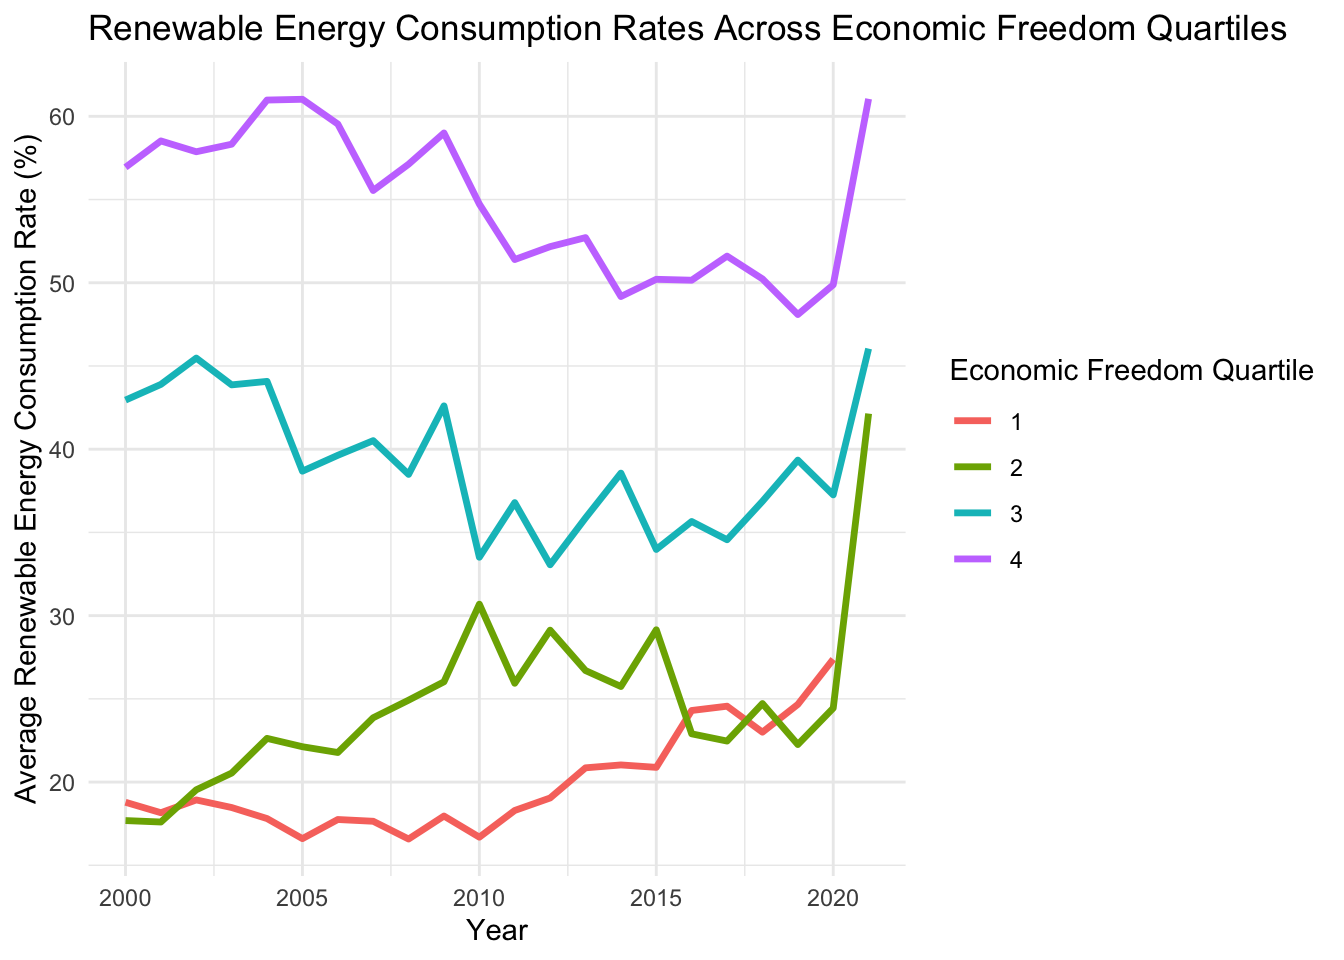
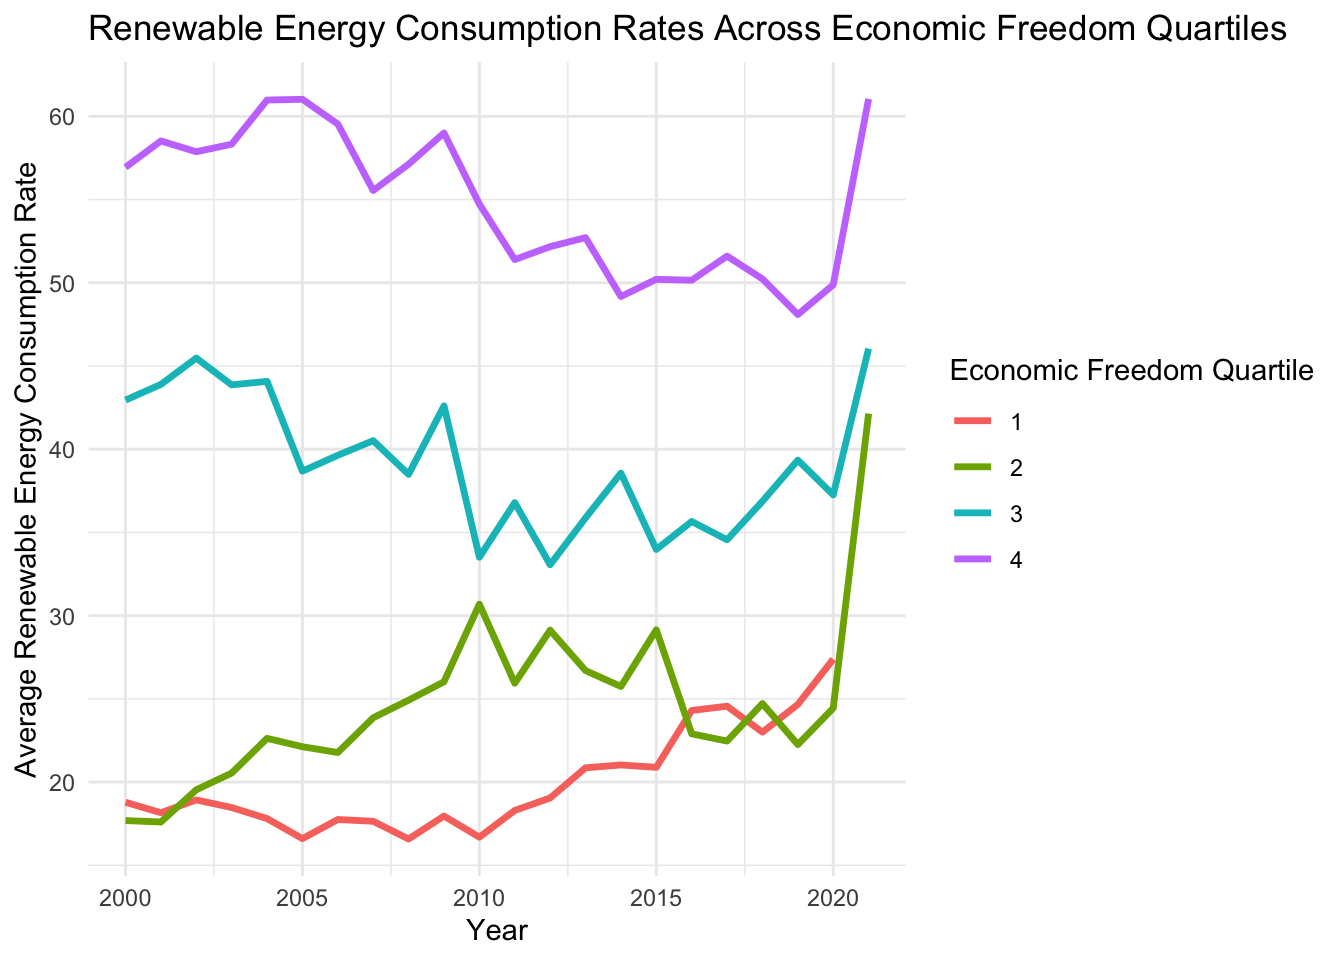
Built site for gh-pages

Changed region(s): [[0.0, 0.1562, 0.0312, 0.8438]]

diff --git a/blog/2023-12-1-stats-proj/index.html b/blog/2023-12-1-stats-proj/index.html
@@ -239,9 +239,9 @@ div.csl-indent {
 <section id="what-is-economic-freedom" class="level3">
 <h3 class="anchored" data-anchor-id="what-is-economic-freedom">What is <em>Economic Freedom</em>?</h3>
 <p>There is certainly a level of subjectivity, or at least a certain amount of uncertainty, when scoring the freedom of an economy. As a result, it seems impossible to create a perfect score for economic freedom. However, this doesn’t mean people haven’t tried to create a spectrum to measure how free and open different economies are.</p>
-<p>The <em>Economic Freedom of the World: 2022 Annual Report</em> serves as the backbone of the analysis in this exploration. The dataset has a multitude of columns, the most important of which is gives each country an economic freedom index score on a scale from 1 to 10. According to the Fraser Institute, the pillars of their scoring of economic freedom depend on “personal choice, voluntary exchange, freedom to enter markets and compete, and security of the person and privately owned property.” <span class="citation" data-cites="fraser">(<a href="#ref-fraser" role="doc-biblioref">Gwartney 2022</a>)</span> This economic freedom score is measured in five areas: size of government, legal system and property rights, sound money, freedom to trade internationally, and regulation.</p>
-<p>In addition to the economic freedom index column, there are a plethora of interesting variables that can be analyzed in this dataset.</p>
-<p>The report discusses how countries that are have higher levels of economic freedom outperform less free countries in indicators of well being. Countries in the top quartile of economic freedom saw an average per-caputa GDP of $48,251 in 2020, while countries in the bottom quartile for economic freedom had an average of $6,542. Furthermore, life expecancy in the top quartile was 80.4 years and 66 years in the bottom quartile in 2020 <span class="citation" data-cites="fraser">(<a href="#ref-fraser" role="doc-biblioref">Gwartney 2022</a>)</span> However, do these positive impacts of higher economic freedom also lead to better environmental outcomes? This analysis will put this question to the test.</p>
+<p>The <em>Economic Freedom of the World: 2022 Annual Report</em> serves as the backbone of the analysis in this exploration. The data set has a multitude of columns, the most important of which is gives each country an economic freedom index score on a scale from 1 to 10. According to the Fraser Institute, the pillars of their scoring of economic freedom depend on “personal choice, voluntary exchange, freedom to enter markets and compete, and security of the person and privately owned property.” <span class="citation" data-cites="fraser">(<a href="#ref-fraser" role="doc-biblioref">Gwartney 2022</a>)</span> This economic freedom score is measured in five areas: size of government, legal system and property rights, sound money, freedom to trade internationally, and regulation.</p>
+<p>In addition to the economic freedom index column, there are a plethora of interesting variables that can be analyzed in this data set.</p>
+<p>The report discusses how countries that are have higher levels of economic freedom outperform less free countries in indicators of well being. Countries in the top quartile of economic freedom saw an average per-caputa GDP of $48,251 in 2020, while countries in the bottom quartile for economic freedom had an average of $6,542. Furthermore, life expectancy in the top quartile was 80.4 years and 66 years in the bottom quartile in 2020 <span class="citation" data-cites="fraser">(<a href="#ref-fraser" role="doc-biblioref">Gwartney 2022</a>)</span> However, do these positive impacts of higher economic freedom also lead to better environmental outcomes? This analysis will put this question to the test.</p>
 </section>
 <section id="environmental-outcomes-analyzed" class="level3">
 <h3 class="anchored" data-anchor-id="environmental-outcomes-analyzed">Environmental Outcomes Analyzed</h3>
@@ -253,7 +253,7 @@ div.csl-indent {
 </section>
 <section id="data-wrangling" class="level2">
 <h2 class="anchored" data-anchor-id="data-wrangling">Data Wrangling</h2>
-<p>First, let’s import the libraries we will need to conduct this analysis.</p>
+<p>First, let’s import the libraries we wlll need to conduct this analysis.</p>
 <div class="cell">
 <div class="sourceCode cell-code" id="cb1"><pre class="sourceCode r code-with-copy"><code class="sourceCode r"><span id="cb1-1"><a href="#cb1-1" aria-hidden="true" tabindex="-1"></a><span class="co"># import libraries</span></span>
 <span id="cb1-2"><a href="#cb1-2" aria-hidden="true" tabindex="-1"></a><span class="fu">library</span>(here)</span>
@@ -265,9 +265,10 @@ div.csl-indent {
 <span id="cb1-8"><a href="#cb1-8" aria-hidden="true" tabindex="-1"></a><span class="fu">library</span>(forecast)</span>
 <span id="cb1-9"><a href="#cb1-9" aria-hidden="true" tabindex="-1"></a><span class="fu">library</span>(randomForest)</span>
 <span id="cb1-10"><a href="#cb1-10" aria-hidden="true" tabindex="-1"></a><span class="fu">library</span>(tidyverse)</span>
-<span id="cb1-11"><a href="#cb1-11" aria-hidden="true" tabindex="-1"></a></span>
-<span id="cb1-12"><a href="#cb1-12" aria-hidden="true" tabindex="-1"></a><span class="co"># clear environment for sanity</span></span>
-<span id="cb1-13"><a href="#cb1-13" aria-hidden="true" tabindex="-1"></a><span class="fu">rm</span>(<span class="at">list =</span> <span class="fu">ls</span>())</span></code><button title="Copy to Clipboard" class="code-copy-button"><i class="bi"></i></button></pre></div>
+<span id="cb1-11"><a href="#cb1-11" aria-hidden="true" tabindex="-1"></a><span class="fu">library</span>(gplots)</span>
+<span id="cb1-12"><a href="#cb1-12" aria-hidden="true" tabindex="-1"></a></span>
+<span id="cb1-13"><a href="#cb1-13" aria-hidden="true" tabindex="-1"></a><span class="co"># clear environment for sanity</span></span>
+<span id="cb1-14"><a href="#cb1-14" aria-hidden="true" tabindex="-1"></a><span class="fu">rm</span>(<span class="at">list =</span> <span class="fu">ls</span>())</span></code><button title="Copy to Clipboard" class="code-copy-button"><i class="bi"></i></button></pre></div>
 </div>
 <section id="data-cleaning" class="level3">
 <h3 class="anchored" data-anchor-id="data-cleaning">Data Cleaning</h3>
@@ -387,7 +388,7 @@ div.csl-indent {
 <h2 class="anchored" data-anchor-id="analysis">Analysis</h2>
 <section id="emissions" class="level3">
 <h3 class="anchored" data-anchor-id="emissions">Emissions</h3>
-<p>In the first piece of analysis, let’s look at the methane emissions data. The units for which the emissions are recorded in the dataset are metric tons of CO2 equivalent per capita.</p>
+<p>In the first piece of analysis, let’s look at the methane emissions data. The units for which the emissions are recorded in the data set are metric tons of CO2 equivalent per capita.</p>
 <p>First, let’s compare the average emission by economic freedom quartile from 2000 to 2020.</p>
 <div class="cell">
 <div class="sourceCode cell-code" id="cb9"><pre class="sourceCode r code-with-copy"><code class="sourceCode r"><span id="cb9-1"><a href="#cb9-1" aria-hidden="true" tabindex="-1"></a><span class="co"># create summary table for mean and stdev of methane emissions for each economic freedom quartile</span></span>
@@ -413,7 +414,7 @@ div.csl-indent {
 </div>
 </div>
 <p>Interesting, so the second quartile of economically free countries has the highest methane emissions by a significant amount across the entire time period. Overall, the emissions levels of all quartiles decreased from 2000 to 2020, a positive sign in the hopes of becoming a carbon-neutral planet.</p>
-<p>Next, let’s perform a linear regression on the economic freedom index and methane emissions.</p>
+<p>Next, let’s perform a linear regression on the economic freedom index and methane emissions to understand the effect of economic freedom on methane emissions.</p>
 <div class="cell">
 <div class="sourceCode cell-code" id="cb10"><pre class="sourceCode r code-with-copy"><code class="sourceCode r"><span id="cb10-1"><a href="#cb10-1" aria-hidden="true" tabindex="-1"></a><span class="co"># run linear regression</span></span>
 <span id="cb10-2"><a href="#cb10-2" aria-hidden="true" tabindex="-1"></a>methane_lm <span class="ot">&lt;-</span> <span class="fu">lm</span>(Value <span class="sc">~</span> economic_freedom_summary_index, <span class="at">data =</span> methane_emissions)</span>
@@ -471,7 +472,7 @@ Multiple R-squared:  0.004061,  Adjusted R-squared:  -0.006534
 F-statistic: 0.3833 on 1 and 94 DF,  p-value: 0.5373</code></pre>
 </div>
 </div>
-<p>Yikes! A negative adjusted r-squared value. This is a sign that the model is a poor fit for the data and is less informative than the mean of the dependent variable. It can also be due to overfitting, but this is not the case since we are only using one predictor variable. Maybe there is a combination of factors from the multitude of columns coming from the <em>freedom</em> dataset that could be useful and informative. Let’s take a look.</p>
+<p>Yikes! Not any better. A negative adjusted r-squared value. This is a sign that the model is a poor fit for the data and is less informative than the mean of the dependent variable. It can also be due to overfitting, but this is not the case since we are only using one predictor variable. Maybe there is a combination of factors from the multitude of columns coming from the <em>freedom</em> data set that could be useful and informative. Let’s take a look.</p>
 <p>The code below finds the 10 variables that have the strongest correlation to methane emissions.</p>
 <div class="cell">
 <div class="sourceCode cell-code" id="cb14"><pre class="sourceCode r code-with-copy"><code class="sourceCode r"><span id="cb14-1"><a href="#cb14-1" aria-hidden="true" tabindex="-1"></a><span class="co"># Ensure 'Value' is numeric</span></span>
@@ -515,6 +516,7 @@ F-statistic: 0.3833 on 1 and 94 DF,  p-value: 0.5373</code></pre>
 10                      x1d_top_marginal_tax_rate            0.2024452</code></pre>
 </div>
 </div>
+<p>These are the 10 variables that have the strongest correlation with methane emission levels. ADD DESCRIPTIONS OF AMBIGUOUS VARIABLES.</p>
 <p>Let’s consider the hypothesis that a strong government with stable currency and lower regulatory influence will have higher methane emissions due to the amount of profitability that can be gained through traditional methane production of goods.</p>
 <div class="cell">
 <div class="sourceCode cell-code" id="cb16"><pre class="sourceCode r code-with-copy"><code class="sourceCode r"><span id="cb16-1"><a href="#cb16-1" aria-hidden="true" tabindex="-1"></a>methane_emission_2020_selected <span class="ot">&lt;-</span> methane_emissions <span class="sc">%&gt;%</span> </span>
@@ -598,7 +600,7 @@ F-statistic: 355.7 on 3 and 3037 DF,  p-value: &lt; 2.2e-16</code></pre>
 <span id="cb22-3"><a href="#cb22-3" aria-hidden="true" tabindex="-1"></a>  <span class="fu">geom_line</span>(<span class="at">size =</span> <span class="fl">1.2</span>) <span class="sc">+</span></span>
 <span id="cb22-4"><a href="#cb22-4" aria-hidden="true" tabindex="-1"></a>  <span class="fu">labs</span>(<span class="at">title =</span> <span class="st">"Renewable Energy Consumption Rates Across Economic Freedom Quartiles"</span>,</span>
 <span id="cb22-5"><a href="#cb22-5" aria-hidden="true" tabindex="-1"></a>       <span class="at">x =</span> <span class="st">"Year"</span>,</span>
-<span id="cb22-6"><a href="#cb22-6" aria-hidden="true" tabindex="-1"></a>       <span class="at">y =</span> <span class="st">"Average Renewable Energy Consumption Rate (%)"</span>,</span>
+<span id="cb22-6"><a href="#cb22-6" aria-hidden="true" tabindex="-1"></a>       <span class="at">y =</span> <span class="st">"Average Renewable Energy Consumption Rate"</span>,</span>
 <span id="cb22-7"><a href="#cb22-7" aria-hidden="true" tabindex="-1"></a>       <span class="at">color =</span> <span class="st">"Economic Freedom Quartile"</span>) <span class="sc">+</span></span>
 <span id="cb22-8"><a href="#cb22-8" aria-hidden="true" tabindex="-1"></a>  <span class="fu">theme_minimal</span>()</span></code><button title="Copy to Clipboard" class="code-copy-button"><i class="bi"></i></button></pre></div>
 <div class="cell-output cell-output-stderr">
@@ -779,8 +781,8 @@ Signif. codes:  0 '***' 0.001 '**' 0.01 '*' 0.05 '.' 0.1 ' ' 1
 <p><img src="index_files/figure-html/unnamed-chunk-23-1.png" class="img-fluid" width="672"></p>
 </div>
 </div>
-<p>This visualization provides some strong takeaways.</p>
-<p>Now let’s look at this over time</p>
+<p>This visualization provides some strong takeaways. DISCUSS TAKEAWAYS HERE</p>
+<p>Now let’s look at this over time.</p>
 <div class="cell">
 <div class="sourceCode cell-code" id="cb42"><pre class="sourceCode r code-with-copy"><code class="sourceCode r"><span id="cb42-1"><a href="#cb42-1" aria-hidden="true" tabindex="-1"></a><span class="co"># Aggregating the forest depletion data by year and quartile</span></span>
 <span id="cb42-2"><a href="#cb42-2" aria-hidden="true" tabindex="-1"></a>forest_depletion_time_series <span class="ot">&lt;-</span> forest_depletion <span class="sc">%&gt;%</span></span>
@@ -822,6 +824,7 @@ Signif. codes:  0 '***' 0.001 '**' 0.01 '*' 0.05 '.' 0.1 ' ' 1</code></pre>
 </section>
 <section id="water-stress" class="level3">
 <h3 class="anchored" data-anchor-id="water-stress">Water Stress</h3>
+<p>INTRODUCE WATER STRESS HERE</p>
 <div class="cell">
 <div class="sourceCode cell-code" id="cb45"><pre class="sourceCode r code-with-copy"><code class="sourceCode r"><span id="cb45-1"><a href="#cb45-1" aria-hidden="true" tabindex="-1"></a><span class="co"># Ensure 'Value' is numeric</span></span>
 <span id="cb45-2"><a href="#cb45-2" aria-hidden="true" tabindex="-1"></a>water_stress<span class="sc">$</span>Value <span class="ot">&lt;-</span> <span class="fu">as.numeric</span>(water_stress<span class="sc">$</span>Value)</span>
@@ -999,45 +1002,43 @@ F-statistic: 142.6 on 4 and 2339 DF,  p-value: &lt; 2.2e-16</code></pre>
 <span id="cb51-34"><a href="#cb51-34" aria-hidden="true" tabindex="-1"></a>  similar_countries_with_emissions <span class="ot">&lt;-</span> <span class="fu">merge</span>(similar_countries, emissions_2020, <span class="at">by =</span> <span class="st">"country_name"</span>) <span class="sc">%&gt;%</span> </span>
 <span id="cb51-35"><a href="#cb51-35" aria-hidden="true" tabindex="-1"></a>    dplyr<span class="sc">::</span><span class="fu">select</span>(country_name, eucl_distance, Value) <span class="sc">%&gt;%</span> </span>
 <span id="cb51-36"><a href="#cb51-36" aria-hidden="true" tabindex="-1"></a>    <span class="fu">arrange</span>(eucl_distance)</span>
-<span id="cb51-37"><a href="#cb51-37" aria-hidden="true" tabindex="-1"></a></span>
-<span id="cb51-38"><a href="#cb51-38" aria-hidden="true" tabindex="-1"></a>  <span class="co"># Return the most similar countries</span></span>
-<span id="cb51-39"><a href="#cb51-39" aria-hidden="true" tabindex="-1"></a>  <span class="fu">head</span>(similar_countries_with_emissions, top_n)</span>
-<span id="cb51-40"><a href="#cb51-40" aria-hidden="true" tabindex="-1"></a>}</span></code><button title="Copy to Clipboard" class="code-copy-button"><i class="bi"></i></button></pre></div>
+<span id="cb51-37"><a href="#cb51-37" aria-hidden="true" tabindex="-1"></a>  </span>
+<span id="cb51-38"><a href="#cb51-38" aria-hidden="true" tabindex="-1"></a>  top_countries <span class="ot">&lt;-</span> <span class="fu">head</span>(similar_countries_with_emissions, top_n)</span>
+<span id="cb51-39"><a href="#cb51-39" aria-hidden="true" tabindex="-1"></a></span>
+<span id="cb51-40"><a href="#cb51-40" aria-hidden="true" tabindex="-1"></a>  <span class="co"># Combine the economic freedom dimensions and methane emissions into one dataframe</span></span>
+<span id="cb51-41"><a href="#cb51-41" aria-hidden="true" tabindex="-1"></a>  combined_data <span class="ot">&lt;-</span> <span class="fu">merge</span>(relevant_data, top_countries, <span class="at">by =</span> <span class="st">"country_name"</span>)</span>
+<span id="cb51-42"><a href="#cb51-42" aria-hidden="true" tabindex="-1"></a>  combined_data <span class="ot">&lt;-</span> combined_data <span class="sc">%&gt;%</span> </span>
+<span id="cb51-43"><a href="#cb51-43" aria-hidden="true" tabindex="-1"></a>                    <span class="fu">select</span>(<span class="sc">-</span>eucl_distance) <span class="sc">%&gt;%</span></span>
+<span id="cb51-44"><a href="#cb51-44" aria-hidden="true" tabindex="-1"></a>                    <span class="fu">pivot_longer</span>(<span class="at">cols =</span> <span class="sc">-</span>country_name, <span class="at">names_to =</span> <span class="st">"variable"</span>, <span class="at">values_to =</span> <span class="st">"value"</span>)</span>
+<span id="cb51-45"><a href="#cb51-45" aria-hidden="true" tabindex="-1"></a></span>
+<span id="cb51-46"><a href="#cb51-46" aria-hidden="true" tabindex="-1"></a>  <span class="co"># Check if the combined_data has the required dimensions</span></span>
+<span id="cb51-47"><a href="#cb51-47" aria-hidden="true" tabindex="-1"></a>  <span class="cf">if</span> (<span class="fu">nrow</span>(combined_data) <span class="sc">&lt;</span> <span class="dv">2</span> <span class="sc">|</span> <span class="fu">ncol</span>(combined_data) <span class="sc">&lt;</span> <span class="dv">2</span>) {</span>
+<span id="cb51-48"><a href="#cb51-48" aria-hidden="true" tabindex="-1"></a>    <span class="fu">print</span>(<span class="st">"Not enough data to create a heatmap. Please select more countries or adjust the parameters."</span>)</span>
+<span id="cb51-49"><a href="#cb51-49" aria-hidden="true" tabindex="-1"></a>    <span class="fu">return</span>(<span class="cn">NULL</span>)</span>
+<span id="cb51-50"><a href="#cb51-50" aria-hidden="true" tabindex="-1"></a>  }</span>
+<span id="cb51-51"><a href="#cb51-51" aria-hidden="true" tabindex="-1"></a></span>
+<span id="cb51-52"><a href="#cb51-52" aria-hidden="true" tabindex="-1"></a>  <span class="co"># Create the heatmap</span></span>
+<span id="cb51-53"><a href="#cb51-53" aria-hidden="true" tabindex="-1"></a>  heatmap_data <span class="ot">&lt;-</span> reshape2<span class="sc">::</span><span class="fu">dcast</span>(combined_data, country_name <span class="sc">~</span> variable, <span class="at">value.var =</span> <span class="st">"value"</span>)</span>
+<span id="cb51-54"><a href="#cb51-54" aria-hidden="true" tabindex="-1"></a>  <span class="fu">heatmap.2</span>(<span class="fu">as.matrix</span>(heatmap_data[, <span class="sc">-</span><span class="dv">1</span>]), </span>
+<span id="cb51-55"><a href="#cb51-55" aria-hidden="true" tabindex="-1"></a>            <span class="at">main =</span> <span class="st">"Heatmap of Economic Freedom and Methane Emissions"</span>, </span>
+<span id="cb51-56"><a href="#cb51-56" aria-hidden="true" tabindex="-1"></a>            <span class="at">notecol=</span><span class="st">"black"</span>, </span>
+<span id="cb51-57"><a href="#cb51-57" aria-hidden="true" tabindex="-1"></a>            <span class="at">density.info=</span><span class="st">"none"</span>, </span>
+<span id="cb51-58"><a href="#cb51-58" aria-hidden="true" tabindex="-1"></a>            <span class="at">trace=</span><span class="st">"none"</span>, </span>
+<span id="cb51-59"><a href="#cb51-59" aria-hidden="true" tabindex="-1"></a>            <span class="at">col=</span><span class="fu">bluered</span>(<span class="dv">20</span>), </span>
+<span id="cb51-60"><a href="#cb51-60" aria-hidden="true" tabindex="-1"></a>            <span class="at">margin=</span><span class="fu">c</span>(<span class="dv">8</span>, <span class="dv">8</span>), </span>
+<span id="cb51-61"><a href="#cb51-61" aria-hidden="true" tabindex="-1"></a>            <span class="at">cexRow=</span><span class="dv">1</span>, </span>
+<span id="cb51-62"><a href="#cb51-62" aria-hidden="true" tabindex="-1"></a>            <span class="at">cexCol=</span><span class="fl">1.25</span>)</span>
+<span id="cb51-63"><a href="#cb51-63" aria-hidden="true" tabindex="-1"></a>}</span></code><button title="Copy to Clipboard" class="code-copy-button"><i class="bi"></i></button></pre></div>
 </div>
 <p>Now, let’s test the function.</p>
 <div class="cell">
 <div class="sourceCode cell-code" id="cb52"><pre class="sourceCode r code-with-copy"><code class="sourceCode r"><span id="cb52-1"><a href="#cb52-1" aria-hidden="true" tabindex="-1"></a><span class="fu">find_similar_countries_w_methane</span>(freedom, <span class="st">"Denmark"</span>, <span class="dv">25</span>)</span></code><button title="Copy to Clipboard" class="code-copy-button"><i class="bi"></i></button></pre></div>
-<div class="cell-output cell-output-stdout">
-<pre><code>           country_name eucl_distance     Value
-1               Finland     0.6396362 0.8149538
-2            Luxembourg     0.6477164 0.8815772
-3           Netherlands     0.8955070 0.8715177
-4             Australia     0.9625143 5.1250548
-5                Sweden     0.9671643 0.4628503
-6                Norway     0.9784877 0.8072835
-7                 Japan     1.0060645 0.2042065
-8                Canada     1.0504405 2.6348554
-9           New Zealand     1.0715922 6.3341199
-10              Germany     1.0751399 0.5641788
-11              Ireland     1.1778313 3.0595097
-12              Austria     1.2092616 0.7696740
-13       United Kingdom     1.2144811 0.7515615
-14              Iceland     1.2204110 1.4057751
-15              Belgium     1.3046484 0.6910790
-16              Estonia     1.3125487 0.8251958
-17               France     1.5259000 0.8650367
-18 United Arab Emirates     1.5305686 6.1314669
-19               Latvia     1.5435357 1.0275522
-20        United States     1.6387359 2.2570601
-21                Spain     1.6560537 0.8382282
-22              Czechia     1.6687601 1.1573900
-23            Singapore     1.7456915 0.7646497
-24            Lithuania     1.7955099 1.0728030
-25                Malta     1.8393511 0.4429875</code></pre>
+<div class="cell-output-display">
+<p><img src="index_files/figure-html/unnamed-chunk-30-1.png" class="img-fluid" width="672"></p>
 </div>
 </div>
 <div class="cell">
-<div class="sourceCode cell-code" id="cb54"><pre class="sourceCode r code-with-copy"><code class="sourceCode r"><span id="cb54-1"><a href="#cb54-1" aria-hidden="true" tabindex="-1"></a>function_regression <span class="ot">&lt;-</span> lm</span></code><button title="Copy to Clipboard" class="code-copy-button"><i class="bi"></i></button></pre></div>
+<div class="sourceCode cell-code" id="cb53"><pre class="sourceCode r code-with-copy"><code class="sourceCode r"><span id="cb53-1"><a href="#cb53-1" aria-hidden="true" tabindex="-1"></a>function_regression <span class="ot">&lt;-</span> lm</span></code><button title="Copy to Clipboard" class="code-copy-button"><i class="bi"></i></button></pre></div>
 </div>
 </section>
 </section>

diff --git a/blog.html b/blog.html
@@ -197,7 +197,7 @@ Maxwell Patterson
 </a>
 </div>
 </div>
-<div class="quarto-post image-right" data-index="1" data-categories="R,MEDS,Stats" data-listing-date-sort="1702627200000" data-listing-file-modified-sort="1702431989863" data-listing-date-modified-sort="NaN" data-listing-reading-time-sort="19">
+<div class="quarto-post image-right" data-index="1" data-categories="R,MEDS,Stats" data-listing-date-sort="1702627200000" data-listing-file-modified-sort="1702455523123" data-listing-date-modified-sort="NaN" data-listing-reading-time-sort="20">
 <div class="thumbnail">
 <p><a href="./blog/2023-12-1-stats-proj/index.html"> <p class="card-img-top"><img src="blog/2023-12-1-stats-proj/index_files/figure-html/unnamed-chunk-9-1.png"  class="thumbnail-image card-img"/></p> </a></p>
 </div>
